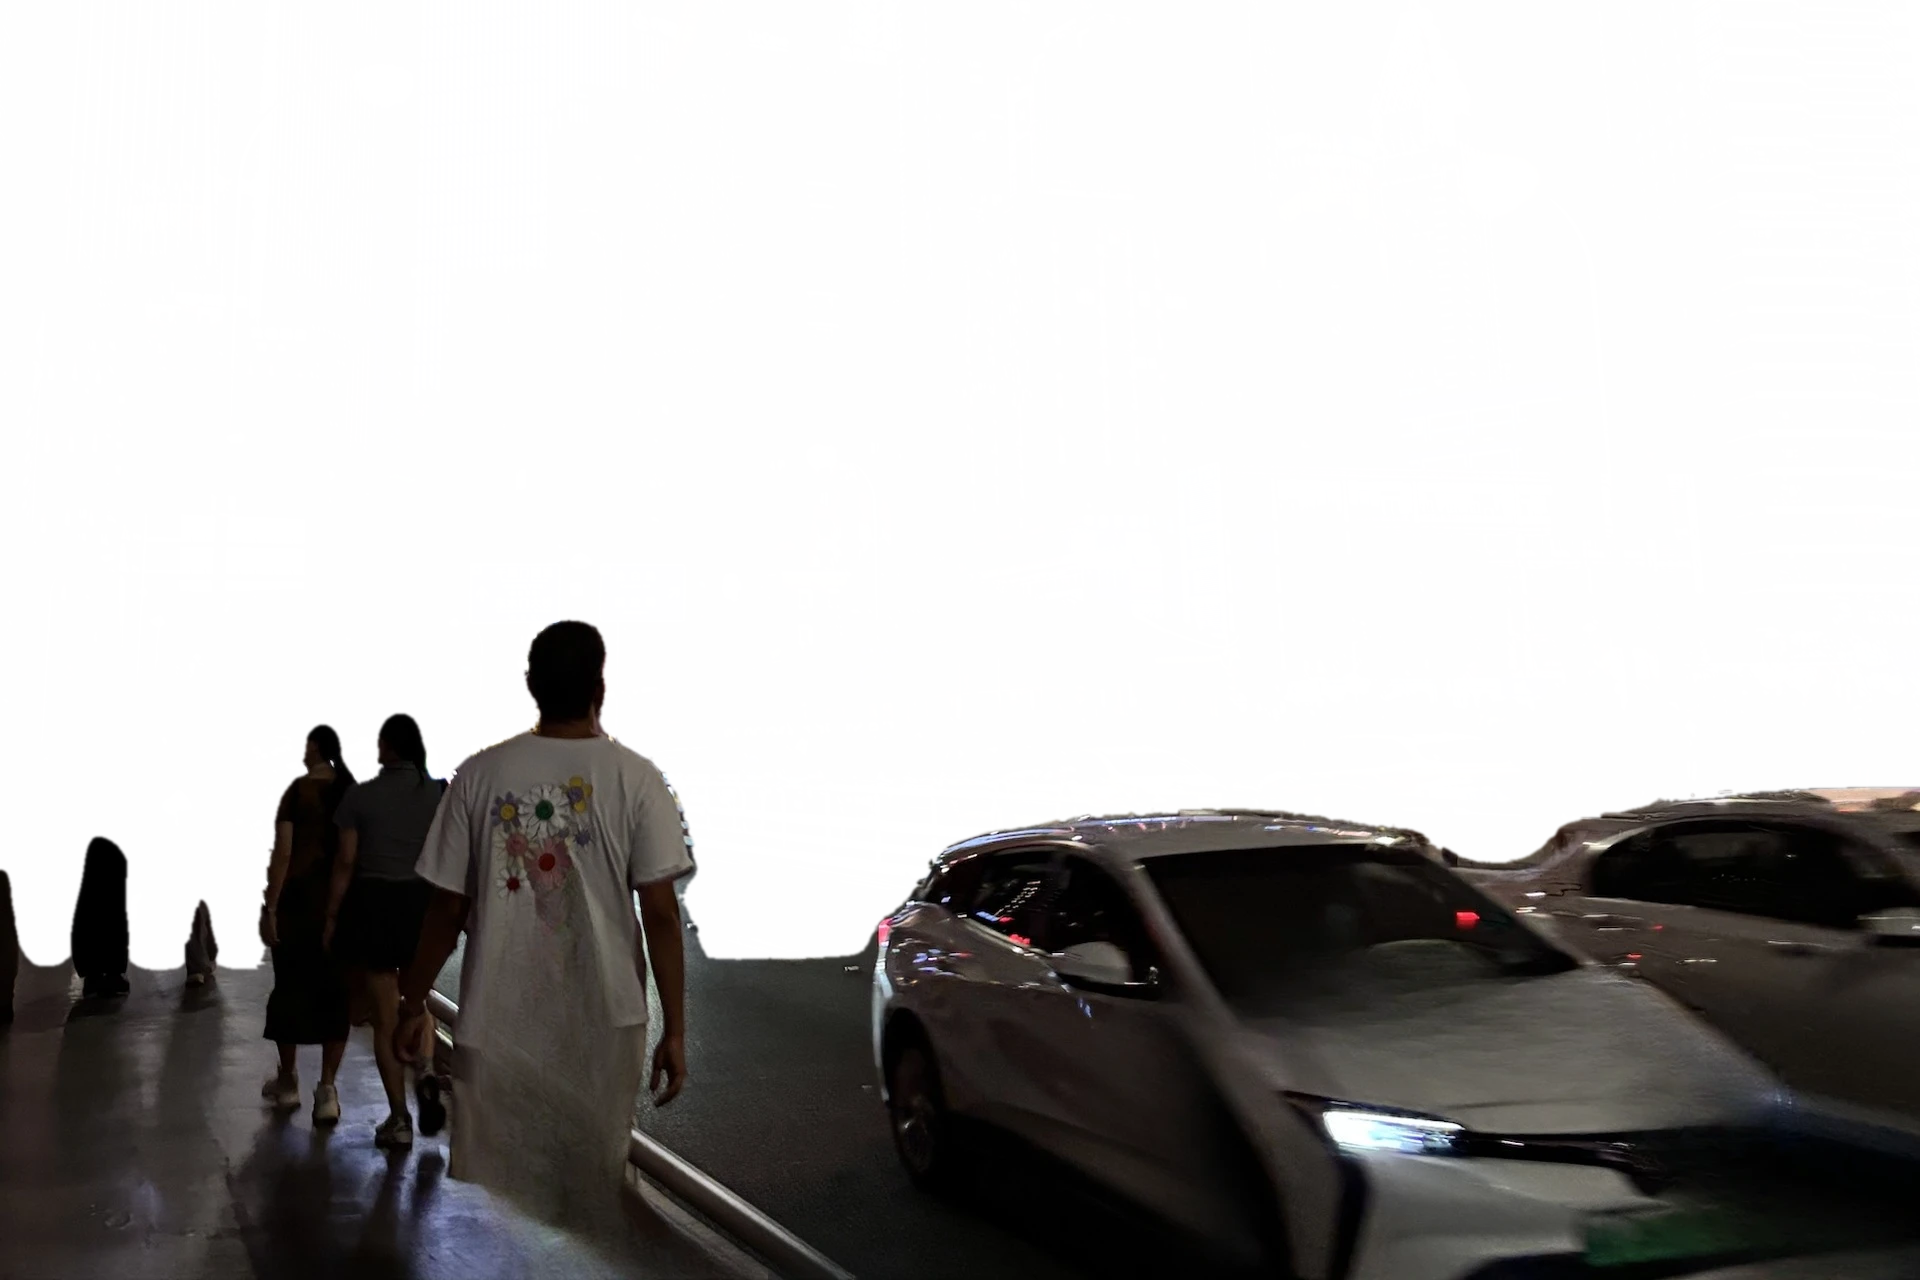
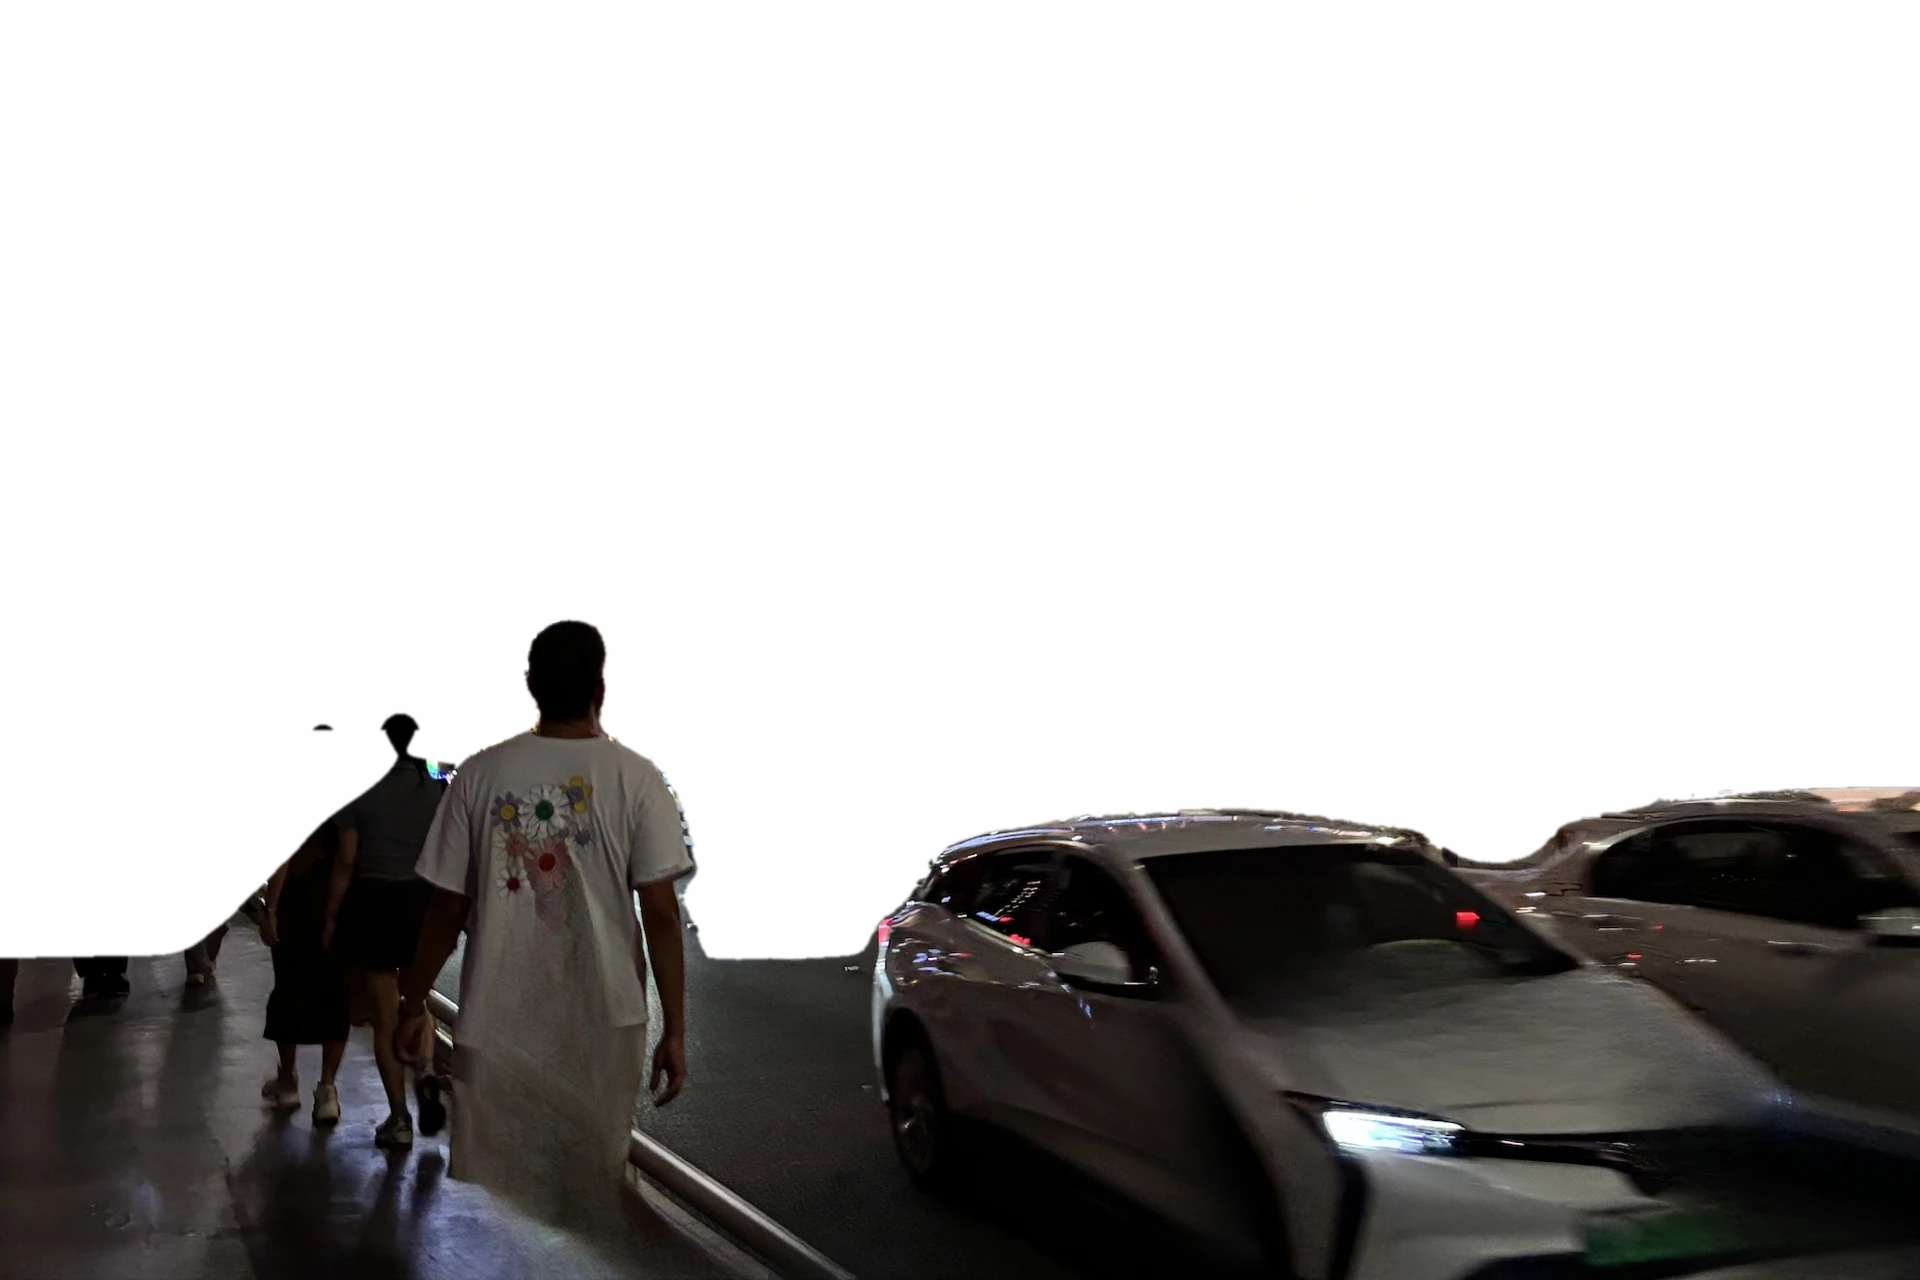
Lab rue : boulevard sans dédoublement des passants flous, comparatif doux/fort
Claude-Session: https://claude.ai/code/session_013Xw59nF2gje1EUSeavtxjp

Changed region(s): [[0.0, 0.5625, 0.25, 0.7812]]

diff --git a/scripts/rue/03_layers.py b/scripts/rue/03_layers.py
@@ -30,6 +30,24 @@ img = load_rgb()
 H, W = img.shape[:2]
 depth = np.load(WORK / "depth.npy")
 
+# Zones « aplaties » (scene.json flatten = [[x0,y0,x1,y1]]) : des passants
+# flous de bougé ne se découpent pas proprement (le flou reste en partie sur
+# le fond et la parallaxe les dédouble). On leur donne la profondeur de ce qui
+# les entoure : ils bougent avec le décor, comme peints dessus.
+keep = np.zeros((H, W), bool)
+for f in glob.glob(str(WORK / "obj_proche_*.png")):
+    keep |= cv2.imread(f, 0) > 127
+for x0, y0, x1, y1 in scene().get("flatten", []):
+    hole = np.zeros((H, W), np.uint8)
+    hole[y0:y1, x0:x1] = 1
+    hole[keep] = 0
+    d8 = (depth * 65535).astype(np.uint16)
+    lo = cv2.resize(d8, (W // 4, H // 4), interpolation=cv2.INTER_AREA).astype(np.float32) / 65535
+    hm = cv2.resize(hole, (W // 4, H // 4), interpolation=cv2.INTER_NEAREST)
+    filled = cv2.inpaint((lo * 255).astype(np.uint8), hm, 9, cv2.INPAINT_TELEA).astype(np.float32) / 255
+    filled = cv2.GaussianBlur(cv2.resize(filled, (W, H), interpolation=cv2.INTER_CUBIC), (0, 0), 6)
+    depth[hole > 0] = filled[hole > 0]
+
 layer = np.digitize(depth, T).astype(np.uint8)   # 0..3
 for f in sorted(glob.glob(str(WORK / "obj_*.png"))):
     m = cv2.imread(f, 0) > 127
